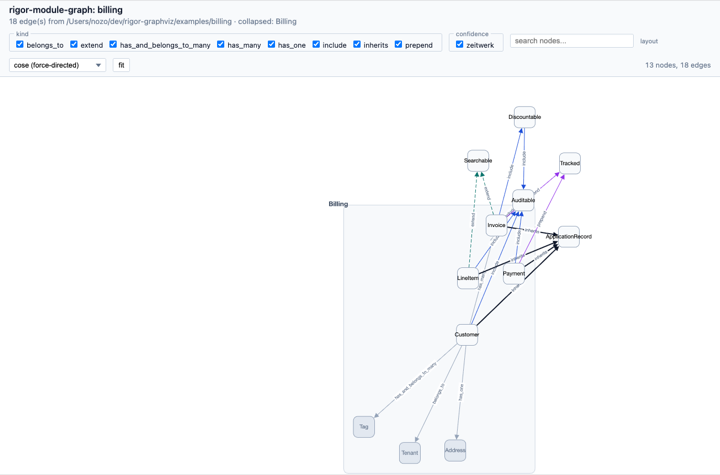
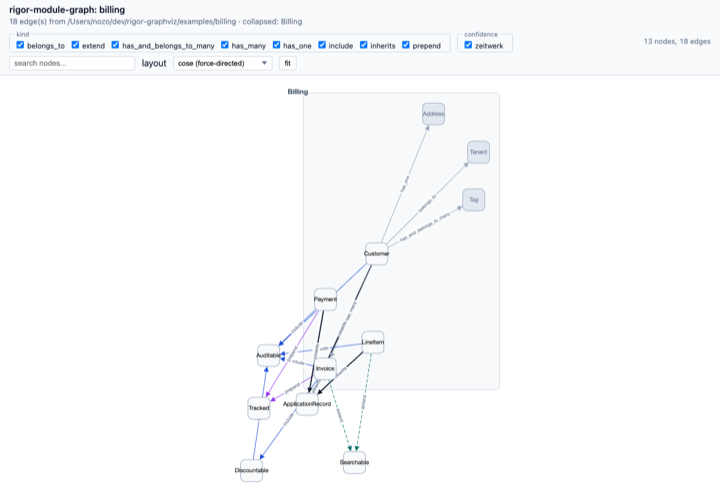
viewer: split header controls into two rows
Cramming kind + confidence + counts + search + layout + fit
onto a single line forced the flex-wrap to break on awkward
boundaries — usually right between the layout label and the
select, or splitting the kind checkbox group across rows. The
fix is to stop fighting the line and stack by intent:

  row 1: kind fieldset · confidence fieldset · counts (right)
  row 2: search · layout · fit

The two rows still flex-wrap individually for narrow
viewports, so a mobile / docked layout doesn't break either —
it just adds a third visual row of whatever overflowed.

viewer.html.erb: wraps the existing controls in two
`<div class="controls-row">` blocks.

viewer.css: `#controls` becomes `flex-direction: column`
with the new `.controls-row` class carrying the existing
horizontal flex-wrap. Same gap / alignment as before; just
broken across the right boundary.

`examples/billing/preview.png` recaptured at 1280×860,
resized to 720 wide, drift gate clean.

diff --git a/examples/billing/index.html b/examples/billing/index.html
@@ -24,7 +24,17 @@ header {
 header h1 { margin: 0 0 0.25rem; font-size: 1rem; font-weight: 600; }
 header .subtitle { margin: 0 0 0.5rem; color: #64748b; font-size: 0.85rem; }
 
+/* The header carries two rows of controls.  Row 1 holds the
+   filter fieldsets (kind / confidence) + the live counts;
+   row 2 holds search / layout / fit.  Stacking by intent
+   keeps cramped one-line wrapping from putting widgets on
+   awkward boundaries. */
 #controls {
+  display: flex;
+  flex-direction: column;
+  gap: 0.4rem;
+}
+#controls .controls-row {
   display: flex;
   flex-wrap: wrap;
   gap: 0.75rem;
@@ -101,19 +111,23 @@ main { flex: 1 1 auto; min-height: 0; }
   <h1>rigor-module-graph: billing</h1>
   <p class="subtitle">18 edge(s) from /Users/nozo/dev/rigor-graphviz/examples/billing · collapsed: Billing</p>
   <div id="controls">
-    <fieldset id="filter-kind"><legend>kind</legend></fieldset>
-    <fieldset id="filter-confidence"><legend>confidence</legend></fieldset>
-    <input id="search" type="search" placeholder="search nodes...">
-    <label for="layout-pick">layout</label>
-    <select id="layout-pick">
-      <option value="cose" selected>cose (force-directed)</option>
-      <option value="breadthfirst">breadthfirst (hierarchical)</option>
-      <option value="concentric">concentric (by degree)</option>
-      <option value="circle">circle</option>
-      <option value="grid">grid</option>
-    </select>
-    <button id="fit" type="button">fit</button>
-    <span id="counts"></span>
+    <div class="controls-row">
+      <fieldset id="filter-kind"><legend>kind</legend></fieldset>
+      <fieldset id="filter-confidence"><legend>confidence</legend></fieldset>
+      <span id="counts"></span>
+    </div>
+    <div class="controls-row">
+      <input id="search" type="search" placeholder="search nodes...">
+      <label for="layout-pick">layout</label>
+      <select id="layout-pick">
+        <option value="cose" selected>cose (force-directed)</option>
+        <option value="breadthfirst">breadthfirst (hierarchical)</option>
+        <option value="concentric">concentric (by degree)</option>
+        <option value="circle">circle</option>
+        <option value="grid">grid</option>
+      </select>
+      <button id="fit" type="button">fit</button>
+    </div>
   </div>
 </header>
 <main>

diff --git a/lib/rigor/module_graph/templates/viewer.css b/lib/rigor/module_graph/templates/viewer.css
@@ -17,7 +17,17 @@ header {
 header h1 { margin: 0 0 0.25rem; font-size: 1rem; font-weight: 600; }
 header .subtitle { margin: 0 0 0.5rem; color: #64748b; font-size: 0.85rem; }
 
+/* The header carries two rows of controls.  Row 1 holds the
+   filter fieldsets (kind / confidence) + the live counts;
+   row 2 holds search / layout / fit.  Stacking by intent
+   keeps cramped one-line wrapping from putting widgets on
+   awkward boundaries. */
 #controls {
+  display: flex;
+  flex-direction: column;
+  gap: 0.4rem;
+}
+#controls .controls-row {
   display: flex;
   flex-wrap: wrap;
   gap: 0.75rem;